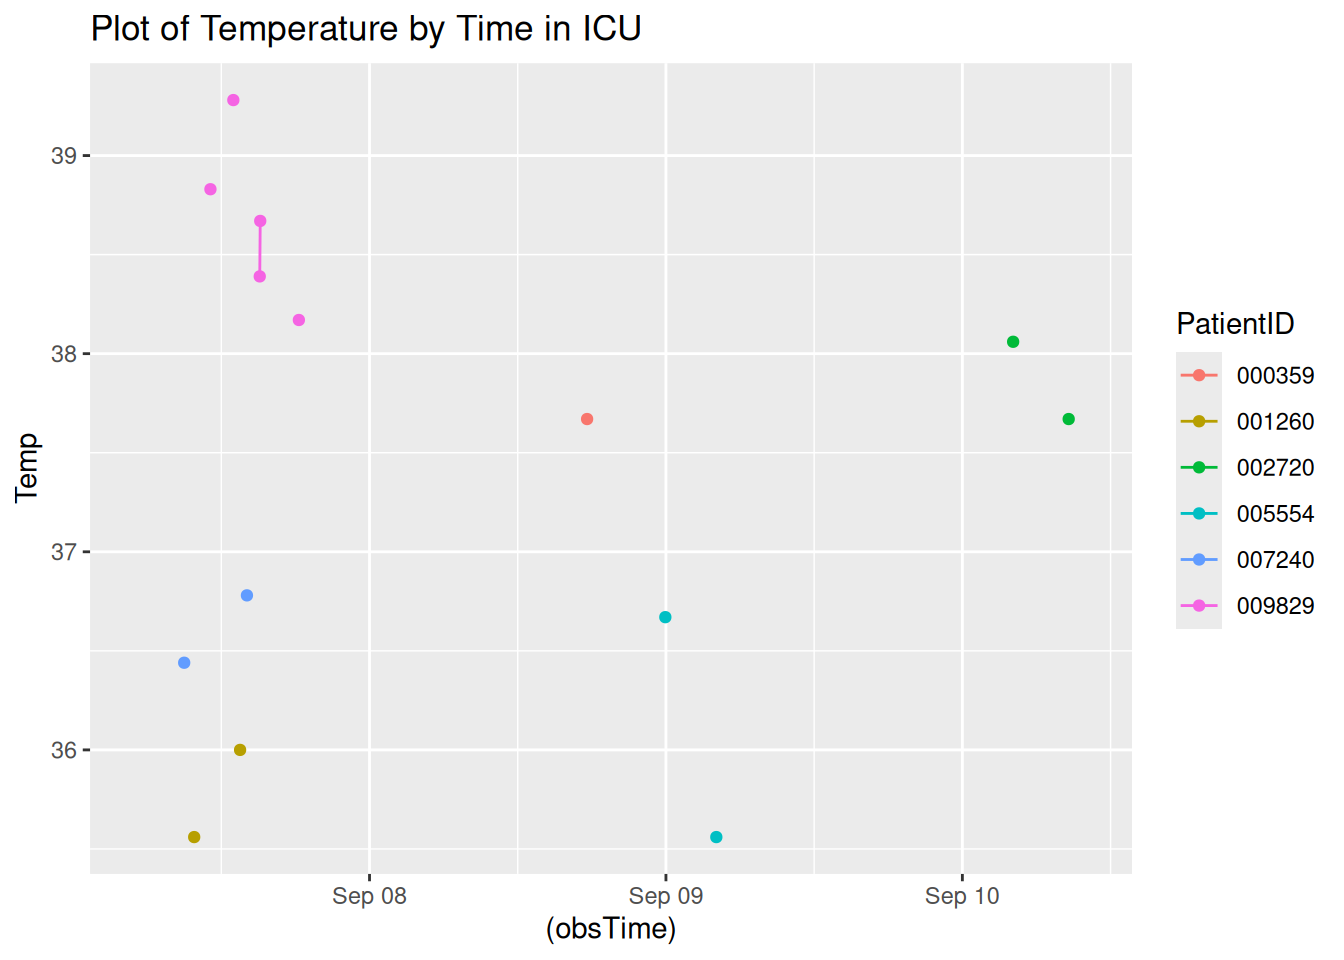
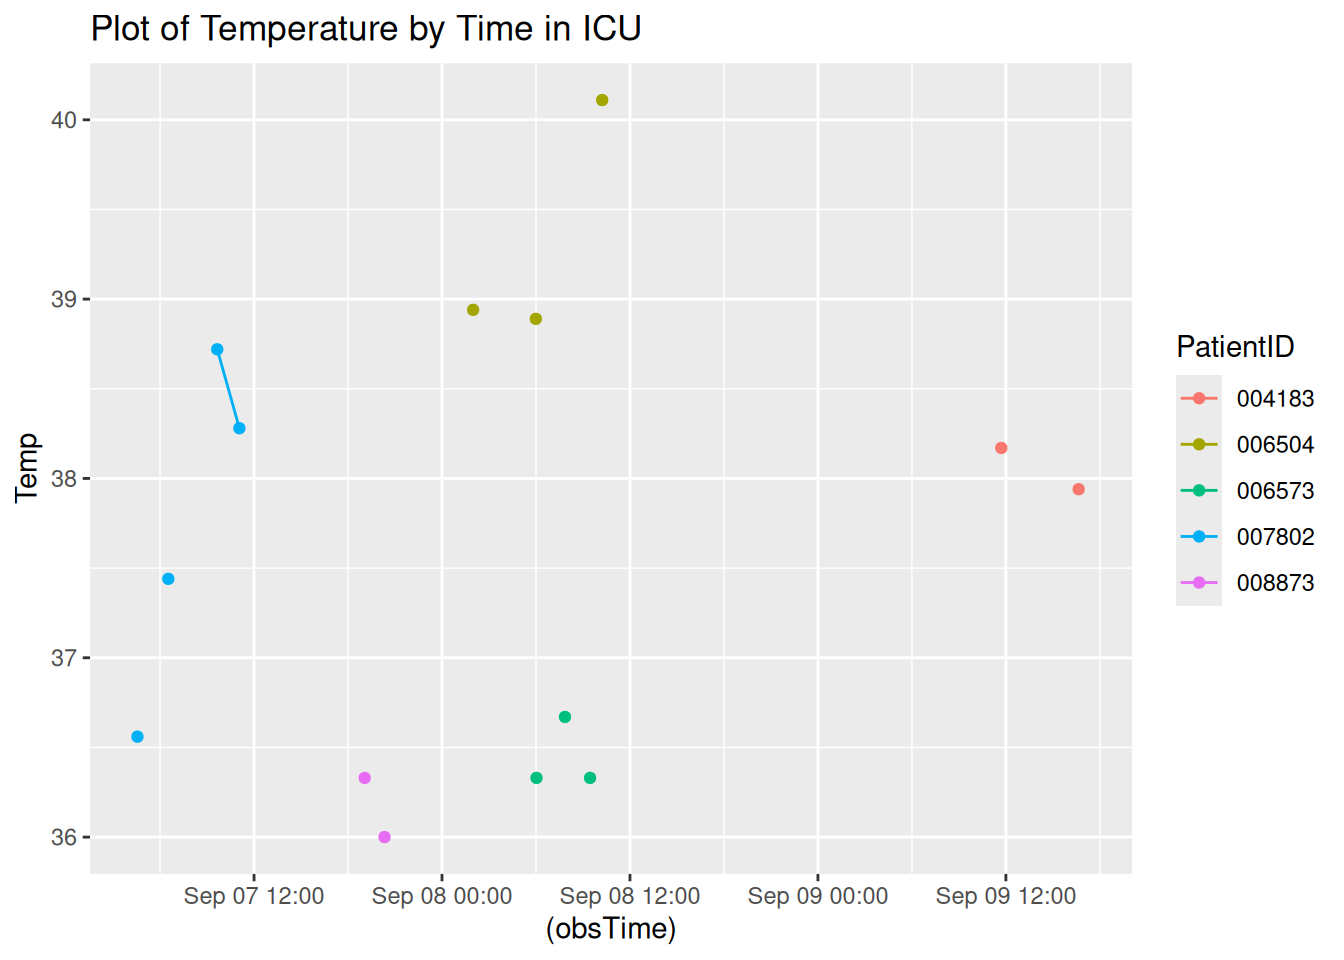
Updated report

diff --git a/A7.html b/A7.html
@@ -118,7 +118,7 @@ pre > code.sourceCode > span > a:first-child::before { text-decoration: underlin
 </div>
 <div class="sourceCode cell-code" id="cb4"><pre class="sourceCode r code-with-copy"><code class="sourceCode r"><span id="cb4-1"><a href="#cb4-1" aria-hidden="true" tabindex="-1"></a><span class="fu">toc</span>()</span></code><button title="Copy to Clipboard" class="code-copy-button"><i class="bi"></i></button></pre></div>
 <div class="cell-output cell-output-stdout">
-<pre><code>11.801 sec elapsed</code></pre>
+<pre><code>15.315 sec elapsed</code></pre>
 </div>
 <div class="sourceCode cell-code" id="cb6"><pre class="sourceCode r code-with-copy"><code class="sourceCode r"><span id="cb6-1"><a href="#cb6-1" aria-hidden="true" tabindex="-1"></a><span class="fu">tic</span>()</span>
 <span id="cb6-2"><a href="#cb6-2" aria-hidden="true" tabindex="-1"></a>test1<span class="ot">=</span><span class="fu">makeSepsisDataset</span>(<span class="at">n=</span><span class="dv">50</span>,<span class="at">read_fn =</span> <span class="st">"read_delim"</span>)</span>
@@ -128,7 +128,7 @@ pre > code.sourceCode > span > a:first-child::before { text-decoration: underlin
 </div>
 <div class="sourceCode cell-code" id="cb8"><pre class="sourceCode r code-with-copy"><code class="sourceCode r"><span id="cb8-1"><a href="#cb8-1" aria-hidden="true" tabindex="-1"></a><span class="fu">toc</span>()</span></code><button title="Copy to Clipboard" class="code-copy-button"><i class="bi"></i></button></pre></div>
 <div class="cell-output cell-output-stdout">
-<pre><code>15.037 sec elapsed</code></pre>
+<pre><code>14.92 sec elapsed</code></pre>
 </div>
 <div class="sourceCode cell-code" id="cb10"><pre class="sourceCode r code-with-copy"><code class="sourceCode r"><span id="cb10-1"><a href="#cb10-1" aria-hidden="true" tabindex="-1"></a><span class="co"># n=100</span></span>
 <span id="cb10-2"><a href="#cb10-2" aria-hidden="true" tabindex="-1"></a><span class="fu">tic</span>()</span>
@@ -139,7 +139,7 @@ pre > code.sourceCode > span > a:first-child::before { text-decoration: underlin
 </div>
 <div class="sourceCode cell-code" id="cb12"><pre class="sourceCode r code-with-copy"><code class="sourceCode r"><span id="cb12-1"><a href="#cb12-1" aria-hidden="true" tabindex="-1"></a><span class="fu">toc</span>()</span></code><button title="Copy to Clipboard" class="code-copy-button"><i class="bi"></i></button></pre></div>
 <div class="cell-output cell-output-stdout">
-<pre><code>17.8 sec elapsed</code></pre>
+<pre><code>26.259 sec elapsed</code></pre>
 </div>
 <div class="sourceCode cell-code" id="cb14"><pre class="sourceCode r code-with-copy"><code class="sourceCode r"><span id="cb14-1"><a href="#cb14-1" aria-hidden="true" tabindex="-1"></a><span class="fu">tic</span>()</span>
 <span id="cb14-2"><a href="#cb14-2" aria-hidden="true" tabindex="-1"></a>test1<span class="ot">=</span><span class="fu">makeSepsisDataset</span>(<span class="at">n=</span><span class="dv">100</span>,<span class="at">read_fn =</span> <span class="st">"read_delim"</span>)</span>
@@ -149,7 +149,7 @@ pre > code.sourceCode > span > a:first-child::before { text-decoration: underlin
 </div>
 <div class="sourceCode cell-code" id="cb16"><pre class="sourceCode r code-with-copy"><code class="sourceCode r"><span id="cb16-1"><a href="#cb16-1" aria-hidden="true" tabindex="-1"></a><span class="fu">toc</span>()</span></code><button title="Copy to Clipboard" class="code-copy-button"><i class="bi"></i></button></pre></div>
 <div class="cell-output cell-output-stdout">
-<pre><code>20.005 sec elapsed</code></pre>
+<pre><code>28.957 sec elapsed</code></pre>
 </div>
 <div class="sourceCode cell-code" id="cb18"><pre class="sourceCode r code-with-copy"><code class="sourceCode r"><span id="cb18-1"><a href="#cb18-1" aria-hidden="true" tabindex="-1"></a><span class="co"># n=500</span></span>
 <span id="cb18-2"><a href="#cb18-2" aria-hidden="true" tabindex="-1"></a><span class="fu">tic</span>()</span>
@@ -160,7 +160,7 @@ pre > code.sourceCode > span > a:first-child::before { text-decoration: underlin
 </div>
 <div class="sourceCode cell-code" id="cb20"><pre class="sourceCode r code-with-copy"><code class="sourceCode r"><span id="cb20-1"><a href="#cb20-1" aria-hidden="true" tabindex="-1"></a><span class="fu">toc</span>()</span></code><button title="Copy to Clipboard" class="code-copy-button"><i class="bi"></i></button></pre></div>
 <div class="cell-output cell-output-stdout">
-<pre><code>88.924 sec elapsed</code></pre>
+<pre><code>132.058 sec elapsed</code></pre>
 </div>
 <div class="sourceCode cell-code" id="cb22"><pre class="sourceCode r code-with-copy"><code class="sourceCode r"><span id="cb22-1"><a href="#cb22-1" aria-hidden="true" tabindex="-1"></a><span class="fu">tic</span>()</span>
 <span id="cb22-2"><a href="#cb22-2" aria-hidden="true" tabindex="-1"></a>test1<span class="ot">=</span><span class="fu">makeSepsisDataset</span>(<span class="at">n=</span><span class="dv">500</span>,<span class="at">read_fn =</span> <span class="st">"read_delim"</span>)</span>
@@ -170,7 +170,7 @@ pre > code.sourceCode > span > a:first-child::before { text-decoration: underlin
 </div>
 <div class="sourceCode cell-code" id="cb24"><pre class="sourceCode r code-with-copy"><code class="sourceCode r"><span id="cb24-1"><a href="#cb24-1" aria-hidden="true" tabindex="-1"></a><span class="fu">toc</span>()</span></code><button title="Copy to Clipboard" class="code-copy-button"><i class="bi"></i></button></pre></div>
 <div class="cell-output cell-output-stdout">
-<pre><code>101.573 sec elapsed</code></pre>
+<pre><code>145.392 sec elapsed</code></pre>
 </div>
 </div>
 <p><strong>Task 3</strong></p>
@@ -196,7 +196,7 @@ pre > code.sourceCode > span > a:first-child::before { text-decoration: underlin
 <span id="cb28-4"><a href="#cb28-4" aria-hidden="true" tabindex="-1"></a></span>
 <span id="cb28-5"><a href="#cb28-5" aria-hidden="true" tabindex="-1"></a><span class="fu">Sys.time</span>()</span></code><button title="Copy to Clipboard" class="code-copy-button"><i class="bi"></i></button></pre></div>
 <div class="cell-output cell-output-stdout">
-<pre><code>[1] "2025-09-07 03:10:36 UTC"</code></pre>
+<pre><code>[1] "2025-09-07 04:33:19 UTC"</code></pre>
 </div>
 <div class="sourceCode cell-code" id="cb30"><pre class="sourceCode r code-with-copy"><code class="sourceCode r"><span id="cb30-1"><a href="#cb30-1" aria-hidden="true" tabindex="-1"></a>dfnew <span class="ot">&lt;-</span> df <span class="sc">%&gt;%</span></span>
 <span id="cb30-2"><a href="#cb30-2" aria-hidden="true" tabindex="-1"></a>  <span class="fu">subset</span>(SepsisLabel<span class="sc">==</span><span class="dv">1</span>)</span>
@@ -225,58 +225,49 @@ pre > code.sourceCode > span > a:first-child::before { text-decoration: underlin
 </thead>
 <tbody>
 <tr class="odd">
-<td style="text-align: left;">000359</td>
-<td style="text-align: right;">42</td>
-<td style="text-align: right;">66</td>
-<td style="text-align: right;">NA</td>
-<td style="text-align: right;">17</td>
-<td style="text-align: right;">1</td>
-<td style="text-align: left;">2025-09-08 20:43:50</td>
-</tr>
-<tr class="even">
-<td style="text-align: left;">001260</td>
-<td style="text-align: right;">15</td>
-<td style="text-align: right;">99</td>
-<td style="text-align: right;">NA</td>
-<td style="text-align: right;">17</td>
-<td style="text-align: right;">1</td>
-<td style="text-align: left;">2025-09-07 16:50:49</td>
-</tr>
-<tr class="odd">
-<td style="text-align: left;">002720</td>
-<td style="text-align: right;">79</td>
-<td style="text-align: right;">73</td>
-<td style="text-align: right;">NA</td>
-<td style="text-align: right;">29</td>
-<td style="text-align: right;">1</td>
-<td style="text-align: left;">2025-09-10 09:55:08</td>
-</tr>
-<tr class="even">
-<td style="text-align: left;">005554</td>
-<td style="text-align: right;">52</td>
-<td style="text-align: right;">98</td>
-<td style="text-align: right;">NA</td>
-<td style="text-align: right;">16</td>
-<td style="text-align: right;">1</td>
-<td style="text-align: left;">2025-09-09 06:34:08</td>
-</tr>
-<tr class="odd">
-<td style="text-align: left;">007240</td>
-<td style="text-align: right;">15</td>
-<td style="text-align: right;">125</td>
+<td style="text-align: left;">004183</td>
+<td style="text-align: right;">62</td>
+<td style="text-align: right;">86</td>
 <td style="text-align: right;">NA</td>
 <td style="text-align: right;">14</td>
 <td style="text-align: right;">1</td>
-<td style="text-align: left;">2025-09-07 17:11:48</td>
+<td style="text-align: left;">2025-09-09 17:02:34</td>
 </tr>
 <tr class="even">
-<td style="text-align: left;">009829</td>
-<td style="text-align: right;">16</td>
-<td style="text-align: right;">99</td>
+<td style="text-align: left;">006504</td>
+<td style="text-align: right;">30</td>
+<td style="text-align: right;">127</td>
+<td style="text-align: right;">NA</td>
+<td style="text-align: right;">30</td>
+<td style="text-align: right;">1</td>
+<td style="text-align: left;">2025-09-08 10:20:26</td>
+</tr>
+<tr class="odd">
+<td style="text-align: left;">006573</td>
+<td style="text-align: right;">31</td>
+<td style="text-align: right;">88</td>
 <td style="text-align: right;">NA</td>
 <td style="text-align: right;">20</td>
 <td style="text-align: right;">1</td>
-<td style="text-align: left;">2025-09-07 19:08:58</td>
+<td style="text-align: left;">2025-09-08 10:39:38</td>
+</tr>
+<tr class="even">
+<td style="text-align: left;">007802</td>
+<td style="text-align: right;">8</td>
+<td style="text-align: right;">104</td>
+<td style="text-align: right;">NA</td>
+<td style="text-align: right;">18</td>
+<td style="text-align: right;">1</td>
+<td style="text-align: left;">2025-09-07 11:13:01</td>
+</tr>
+<tr class="odd">
+<td style="text-align: left;">008873</td>
+<td style="text-align: right;">22</td>
+<td style="text-align: right;">81</td>
+<td style="text-align: right;">NA</td>
+<td style="text-align: right;">18</td>
+<td style="text-align: right;">1</td>
+<td style="text-align: left;">2025-09-08 02:15:48</td>
 </tr>
 </tbody>
 </table>
